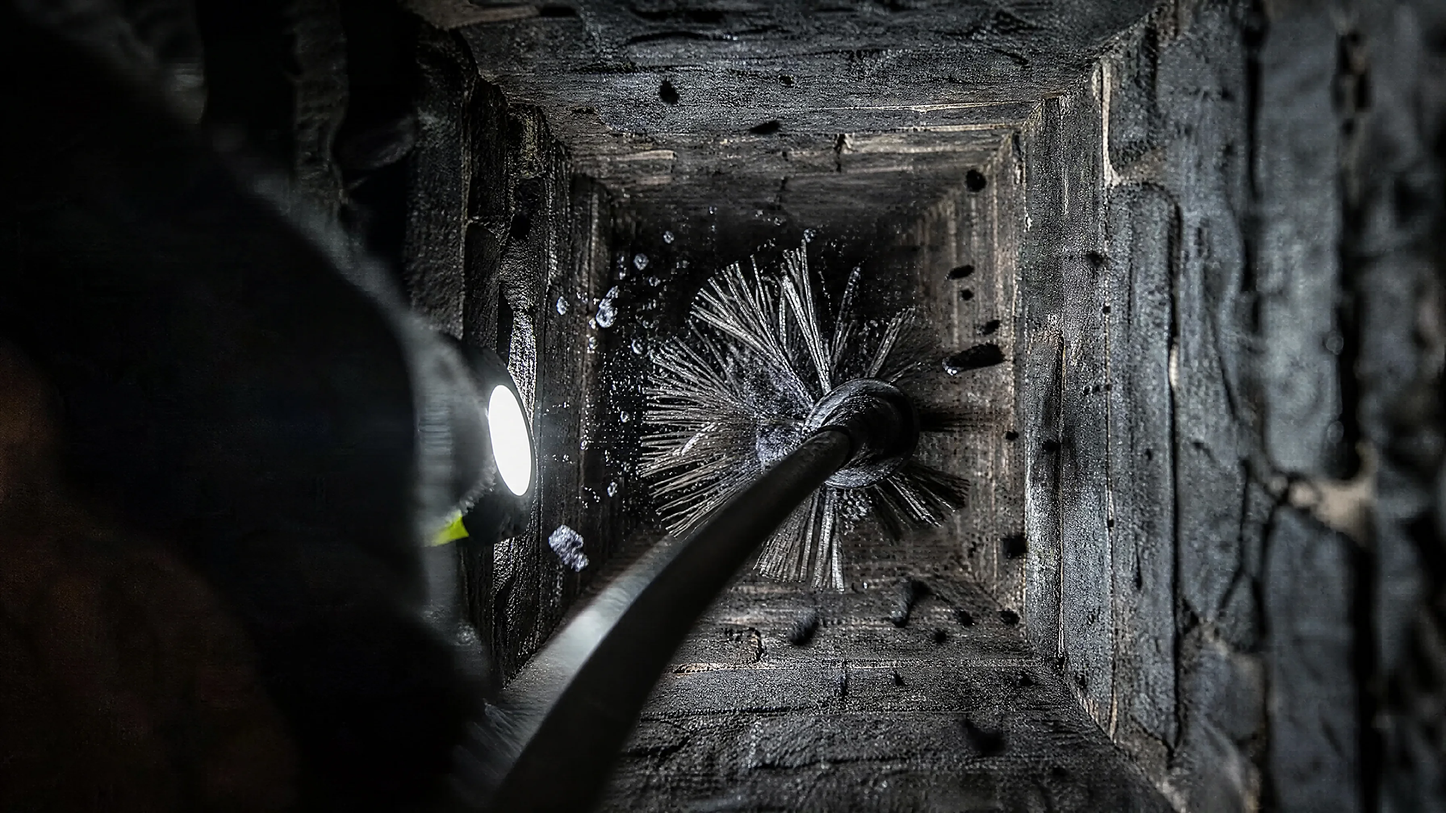
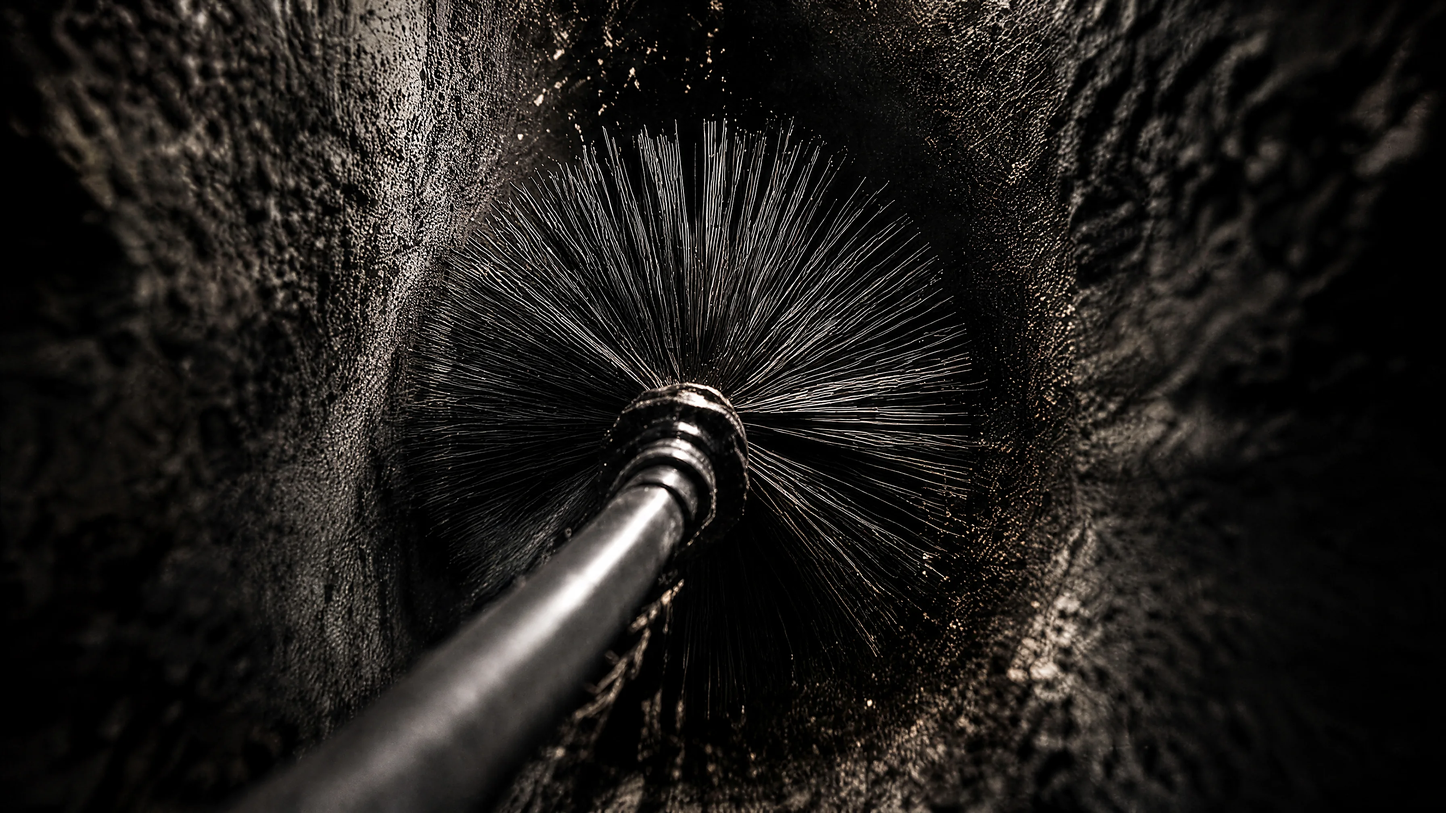
Kehren-Bild aus Storyboard

diff --git a/main.js b/main.js
@@ -23,7 +23,7 @@ const HOUSE = window.KW_HOUSE || { img: 'h-1', th: 'h-1t', w: 3584, h: 2016, x: 
 const FLOORS = ['DACH', 'DACHBODEN', 'WOHNEN', 'TECHNIK', 'KELLER'];
 const LABEL = { DACH: 'Dach', DACHBODEN: 'Dachboden', WOHNEN: 'Wohnen', TECHNIK: 'Technik', KELLER: 'Keller' };
 const RING = { 'h-5': { x: 0.78, y: 0.28, w: 0.28 } };
-const POS = { 'h-2': '58% 50%', 'h-4': '55% 50%', 'h-5': '74% 50%', 'h-7': '30% 50%' };
+const POS = { 'h-2': '47% 50%', 'h-4': '55% 50%', 'h-5': '74% 50%', 'h-7': '30% 50%' };
 
 const cutImg = $('#cutImg'), cutTh = $('#cutTh'), cutZ = $('#cutZ');
 const houseOK = has('img', HOUSE.img);
